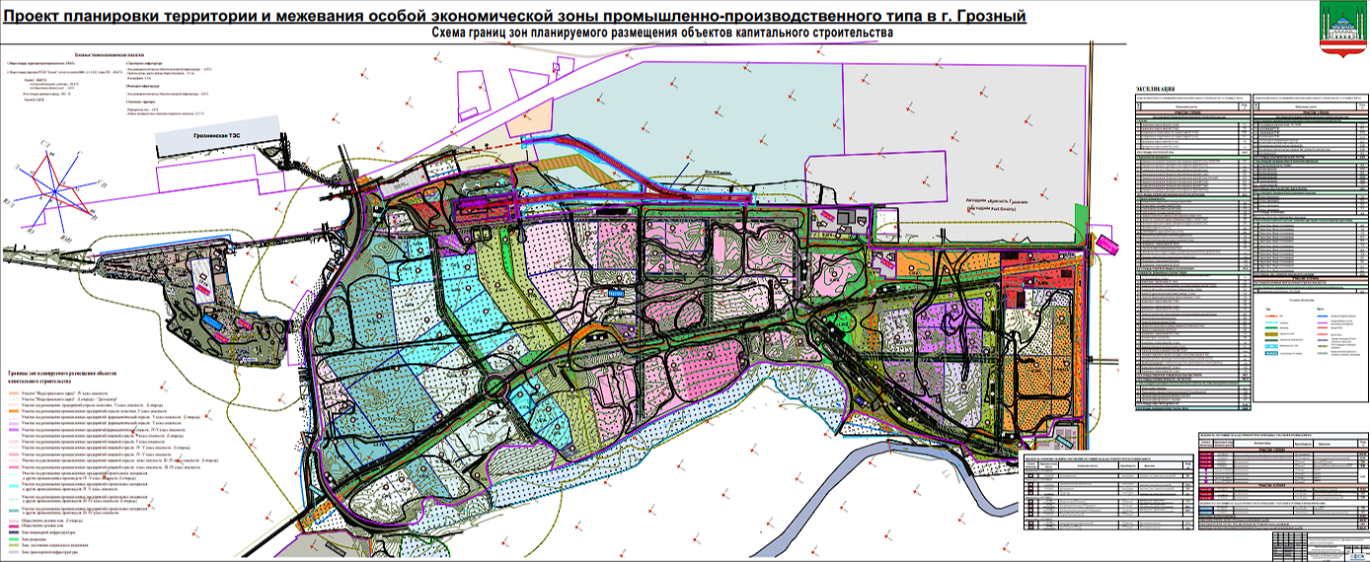
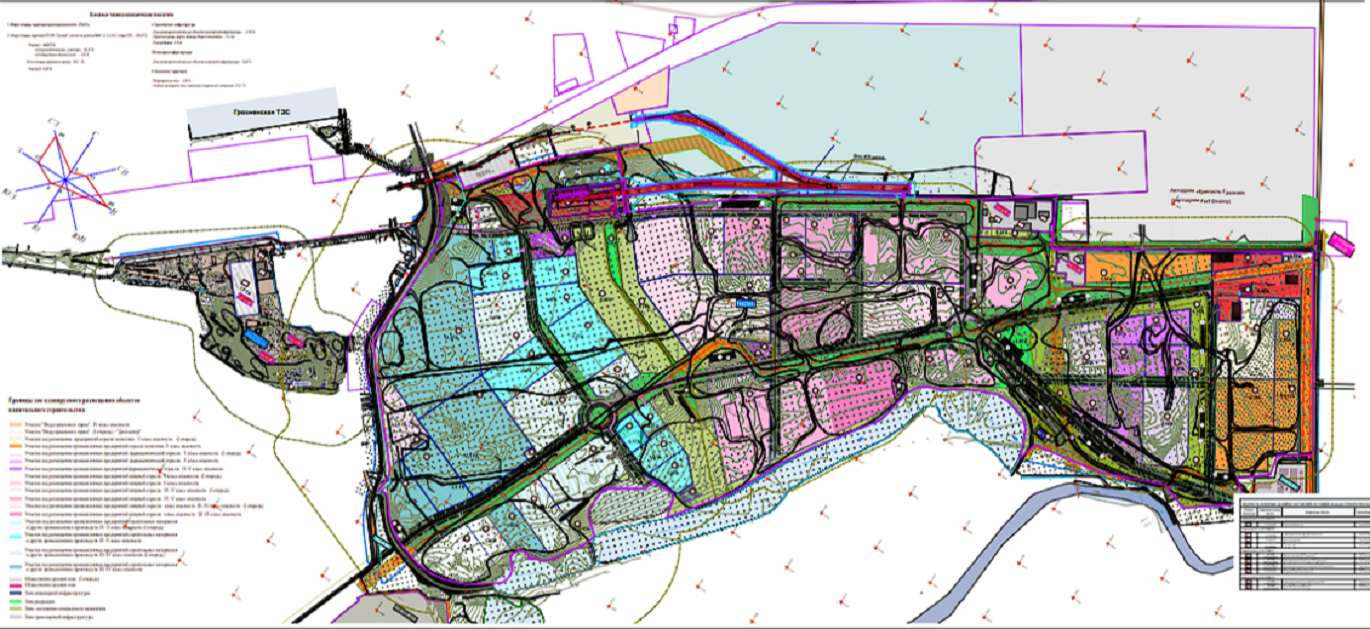
Add files via upload

diff --git a/index.html b/index.html
@@ -8,132 +8,135 @@
   </head>
   <body>
     <div id="map">
-      <svg class="mapSVG" viewBox="0 0 1370 562">
+      <svg class="mapSVG" viewBox="0 0 1096 503.20001">
         <path
           data-region="area1"
-          d="m 101.1796,253.80645 128.37315,-18.86399 2.93984,13.47428 -8.32956,6.85963 10.04447,49.48736 6.85963,7.34961 15.67916,0.24499 2.93985,5.38971 16.65911,-1.22494 7.34961,4.40977 2.69485,12.00436 -0.24498,21.55885 -2.20489,1.22493 0.24499,2.44987 -3.6748,2.44987 0.24498,4.89974 -3.6748,2.69485 -3.42982,-31.60331 -5.6347,-4.40976 -38.70793,4.89974 2.20488,26.2136 -28.41848,-10.28945 -35.5231,-23.76374 -0.24499,-4.40976 8.57454,-10.28945 -2.69486,-4.40977 -5.87968,-10.04446 -3.91979,-5.38971 -0.48998,-8.81953 -6.61464,-3.42982 -52.91718,-5.14472 -5.144724,-3.91979
-          c -1.721423,-1.91581 -2.519614,-4.29323 -2.939843,-6.85964 0.114042,-4.39147 1.128759,-6.38114 2.204882,-8.20706
+          d="M 97.407383,205.98249 217.15022,189.54112
+          c 4.86212,-1.55903 6.76371,-1.20714 8.99622,6.20429 2.05035,9.38394 -4.26104,10.12041 -8.68601,10.5473
+          l 8.68601,49.0139 9.30644,7.13494 12.7188,-1.24086 4.96343,6.20429 14.8903,-1.24086
+          c 6.24765,0.68048 9.77604,4.08021 11.47794,9.30644
+          l -2.1715,25.74781 -2.79193,1.86129 0.31021,2.79193 -3.41236,1.86129
+          c -0.28044,3.63084 -1.30232,6.68501 -5.27365,7.44515
+          l -1.55107,-28.84996 -8.37579,-4.96343 -33.50318,4.65322 1.86129,25.43759 -29.7806,-11.16772 -33.50318,-22.02524 0.62043,-7.44515 7.13493,-7.13493 -14.58008,-30.09082 -54.907985,-7.13494
+          c -4.125586,-0.53142 -9.451066,0.56558 -8.065579,-7.44515 -0.57339,-5.01983 0.304343,-9.65268 5.894077,-13.02901
           z"
         ></path>
         <path
           data-region="area2"
-          d="m 356.51128,252.91859 17.32319,-19.74843 58.55239,1.73232 3.8111,30.83528 33.26053,-4.50403 12.81916,22.17368 62.70995,89.38767 6.58281,21.48076 18.01612,25.98478 3.46464,20.78783 -14.55148,9.00806 -19.74844,-9.70098 -7.27574,6.92927 -31.18174,-0.69293 -14.89795,17.66966 5.88989,20.0949 -9.00806,8.31513 -30.83528,13.85856 -15.24441,-3.11818 -4.85049,-7.6222 -9.35453,6.23635 1.73232,10.74038 -2.42524,6.92927 -8.31514,3.8111 -15.59087,0.69293
-          c -18.70922,7.15687 -76.76593,-0.94854 -77.26143,-72.06447
-          l -6.92928,-4.50403 10.39392,-17.66966 32.22113,-25.98479 -46.42615,-68.25337 7.6222,-22.52015
+          d="m 348.06078,196.98627 11.16772,-15.51073 55.52841,4.03279 4.03279,29.16017 31.33168,-3.41236 75.69236,105.16275 28.53974,71.34935 -14.26987,8.06558 -17.68223,-10.85751 -6.82472,6.51451 -30.71125,-0.31022 -8.99622,38.1564 -11.78816,8.06558 -29.16017,11.78815 -11.47794,-2.1715 -6.5145,-7.75536 -8.68601,4.65322 0.93064,14.26987 -8.68601,8.37579 -31.64189,0.62043 -28.53974,-10.23708 -37.22575,-64.52464 9.92687,-19.54352 31.02146,-22.02523 -42.4994,-57.07949 -1.55108,-22.64566
           z"
         ></path>
         <path
           data-region="area3"
-          d="m 521.42806,225.20149 18.70905,-2.77171 34.29992,-2.42525 199.56316,-1.38585 22.52015,30.48881 50.93018,5.88989
-          c 8.55244,6.23635 8.93555,12.47269 10.39392,18.70904
-          l -10.39392,5.88989 -3.46463,6.58281 2.42524,2.42525 -2.42524,4.15756 -9.70099,4.15757 -6.58281,-0.69293 -6.23635,0.34647
-          h -13.16563
-          l 0.34647,45.38676 12.12623,13.16562 2.07879,4.8505 -7.27575,1.73232
-          h -48.15847
-          l -19.74844,-4.8505 -10.39391,5.88989 -8.6616,24.59893 -100.82097,47.81201 -10.04745,-1.38586 -15.93734,9.70099 -12.81916,-56.12714 -20.0949,-52.6625 -40.88274,-58.20592
+          d="m 504.71915,176.20189 115.39983,-4.343 150.14386,-1.86129 4.96343,29.7806 45.60155,5.89408
+          c 6.28693,5.19094 8.55573,11.05156 9.92687,17.0618
+          l -11.47794,7.13494 0.31021,10.85751 -10.54729,6.20429 -7.75537,-0.93065 -16.13116,1.86129 -3.10214,34.43382 20.47416,22.33545
+          c -0.69032,3.98644 0.2655,8.65876 -9.92687,8.68601
+          l -58.32034,-2.79193 -37.22575,28.84996 -97.09717,46.22197 -19.23331,1.55108 -18.92309,-87.48052 -50.87519,-73.52086
           z"
         ></path>
         <path
           data-region="area4"
-          d="m 879.67166,312.85684 103.24622,-15.24441 -2.07878,122.64819 -6.23635,7.96867 -32.5676,-1.38585 -57.513,-45.0403
+          d="m 849.98799,261.5109 101.44017,-14.8903 -1.55107,119.12241 -6.20429,7.13493 -28.53974,-0.31021 -17.06181,-15.51073 -42.18918,-31.64189
           z"
         ></path>
         <path
           data-region="area5"
-          d="m 895.95546,249.10749 1.38586,28.06357 36.03223,-1.38585
-          h 14.89795
-          l 51.9696,-8.6616 0.3464,-14.55148
+          d="m 868.29065,199.7782 0.62043,28.84996 55.83863,-3.72258 43.74026,-8.06558 -0.31022,-13.64944
           z"
         ></path>
         <path
           data-region="area6"
-          d="m 1071.6126,312.16391 2.7717,106.71086
-          h -20.0949
-          l -5.8899,16.63026 -46.4261,-3.8111 -1.0394,-76.56851 11.4333,-23.906
-          v -18.36258
+          d="m 1037.3576,257.1679 2.1715,86.23966 0.3102,20.78438 -25.4376,-2.48172 0.3102,15.51073 -43.43,-2.48172 -0.62043,-72.59021 8.06558,-42.18919
           z"
         ></path>
         <path
           data-region="area7"
-          d="m 1001.2805,250.14688 -0.693,44.69384 5.197,0.69293 0.3465,12.12623 19.0555,1.38585 -0.3465,-18.01611 -2.0788,-1.73232 0.3465,-1.38586 51.6231,1.03939 0.3465,-37.76455
+          d="m 968.48997,201.9497 0.31021,41.87897 5.89408,0.31022 0.31021,11.78815 17.99245,0.62043 -1.24086,-19.2333 49.01394,0.62042 1.551,-32.26231
+          c -4.0145,-2.81024 -10.6485,-3.00093 -17.0618,-3.41236
           z"
         ></path>
         <path
           data-region="area8"
-          d="m 414.7172,233.86308 -3.11817,-29.10296 103.59268,-12.12623 4.50403,28.41003
+          d="m 402.03812,183.02661 -5.27365,-27.29888 102.99124,-10.5473 2.48172,26.05803
           z"
         ></path>
         <path
           data-region="area9"
-          d="m 276.95772,368.09285 -3.55231,-31.60331 -6.49216,-4.16478 -37.60549,4.65475 2.32738,26.45859 6.61464,2.32738 6.24717,0.61246 2.32737,1.46992
+          d="m 224.61936,311.26452
+          c 22.70323,3.61936 22.70323,3.61936 22.70323,3.61936
+          l 19.08387,0.43871 -1.86452,-29.28387 -8.11613,-4.71613 -33.56129,4.60645
           z"
         ></path>
         <path
           data-region="area10"
-          d="m 434.8121,236.28833 37.07163,-5.88988 4.50403,23.21307 -37.76455,2.77171
+          d="m 424.68378,207.84378 36.29511,-4.34301 -4.96343,-21.4048 -34.74404,3.10214
           z"
         ></path>
         <path
           data-region="area11"
-          d="m 558.15323,451.0959 9.00806,9.35453 13.16562,-8.31513 -8.31513,-10.39392
+          d="m 540.08361,396.14404 13.95966,-8.68601 8.06558,8.99622 -16.13116,6.20429
           z"
         ></path>
         <path
           data-region="area12"
-          d="m 858.53737,393.58291 8.31513,7.6222 -5.54342,5.54342 -9.00806,-7.27574
+          d="m 827.03211,345.57906 5.58386,-6.51451 6.82473,8.06558 -4.65322,5.58387
           z"
         ></path>
       </svg>
-      <img src="./images/map.png" alt="карта" />
+      <img class="mapImg" src="./images/map.png" alt="карта" />
     </div>
-    <div data-region="area1" class="info">
-      <h2 class="infoText">area 1</h2>
-      <img class="infoImg" src="./images/demo.jpg" alt="" />
+    <div class="infoWrapper">
+      <div data-region="area1" class="info">
+        <h2 class="infoText">area 1</h2>
+        <img class="infoImg" src="./images/demo.jpg" alt="" />
+      </div>
+      <div data-region="area2" class="info">
+        <h2 class="infoText">area 2</h2>
+        <img class="infoImg" src="./images/demo.jpg" alt="" />
+      </div>
+      <div data-region="area3" class="info">
+        <h2 class="infoText">area 3</h2>
+        <img class="infoImg" src="./images/demo.jpg" alt="" />
+      </div>
+      <div data-region="area4" class="info">
+        <h2 class="infoText">area 4</h2>
+        <img class="infoImg" src="./images/demo.jpg" alt="" />
+      </div>
+      <div data-region="area5" class="info">
+        <h2 class="infoText">area 5</h2>
+        <img class="infoImg" src="./images/demo.jpg" alt="" />
+      </div>
+      <div data-region="area6" class="info">
+        <h2 class="infoText">area 6</h2>
+        <img class="infoImg" src="./images/demo.jpg" alt="" />
+      </div>
+      <div data-region="area7" class="info">
+        <h2 class="infoText">area 7</h2>
+        <img class="infoImg" src="./images/demo.jpg" alt="" />
+      </div>
+      <div data-region="area8" class="info">
+        <h2 class="infoText">area 8</h2>
+        <img class="infoImg" src="./images/demo.jpg" alt="" />
+      </div>
+      <div data-region="area9" class="info">
+        <h2 class="infoText">area 9</h2>
+        <img class="infoImg" src="./images/demo.jpg" alt="" />
+      </div>
+      <div data-region="area10" class="info">
+        <h2 class="infoText">area 10</h2>
+        <img class="infoImg" src="./images/demo.jpg" alt="" />
+      </div>
+      <div data-region="area11" class="info">
+        <h2 class="infoText">area 11</h2>
+        <img class="infoImg" src="./images/demo.jpg" alt="" />
+      </div>
+      <div data-region="area12" class="info">
+        <h2 class="infoText">area 12</h2>
+        <img class="infoImg" src="./images/demo.jpg" alt="" />
+      </div>
     </div>
-    <div data-region="area2" class="info">
-      <h2 class="infoText">area 2</h2>
-      <img class="infoImg" src="./images/demo.jpg" alt="" />
-    </div>
-    <div data-region="area3" class="info">
-      <h2 class="infoText">area 3</h2>
-      <img class="infoImg" src="./images/demo.jpg" alt="" />
-    </div>
-    <div data-region="area4" class="info">
-      <h2 class="infoText">area 4</h2>
-      <img class="infoImg" src="./images/demo.jpg" alt="" />
-    </div>
-    <div data-region="area5" class="info">
-      <h2 class="infoText">area 5</h2>
-      <img class="infoImg" src="./images/demo.jpg" alt="" />
-    </div>
-    <div data-region="area6" class="info">
-      <h2 class="infoText">area 6</h2>
-      <img class="infoImg" src="./images/demo.jpg" alt="" />
-    </div>
-    <div data-region="area7" class="info">
-      <h2 class="infoText">area 7</h2>
-      <img class="infoImg" src="./images/demo.jpg" alt="" />
-    </div>
-    <div data-region="area8" class="info">
-      <h2 class="infoText">area 8</h2>
-      <img class="infoImg" src="./images/demo.jpg" alt="" />
-    </div>
-    <div data-region="area9" class="info">
-      <h2 class="infoText">area 9</h2>
-      <img class="infoImg" src="./images/demo.jpg" alt="" />
-    </div>
-    <div data-region="area10" class="info">
-      <h2 class="infoText">area 10</h2>
-      <img class="infoImg" src="./images/demo.jpg" alt="" />
-    </div>
-    <div data-region="area11" class="info">
-      <h2 class="infoText">area 11</h2>
-      <img class="infoImg" src="./images/demo.jpg" alt="" />
-    </div>
-    <div data-region="area12" class="info">
-      <h2 class="infoText">area 12</h2>
-      <img class="infoImg" src="./images/demo.jpg" alt="" />
-    </div>
+
     <script src="./js/main.js"></script>
   </body>
 </html>

diff --git a/style.css b/style.css
@@ -1,19 +1,20 @@
-img {
+.mapImg {
   width: 100%;
   height: 100%;
 }
 #map {
   width: 1370px;
-  height: 562px;
+  height: 629px;
   position: relative;
   text-align: center;
+  margin: 0 auto;
 }
 .mapSVG {
   position: absolute;
   left: 0;
   top: 0;
   width: 1370px;
-  height: 562px;
+  height: 629px;
   opacity: 0.5;
 }
 .mapSVG path {
@@ -35,5 +36,9 @@ img {
 }
 .infoImg {
   width: 500px;
-  height: 500px;
+  height: 400px;
+}
+.infoImg img {
+  width: 100%;
+  height: 100%;
 }
